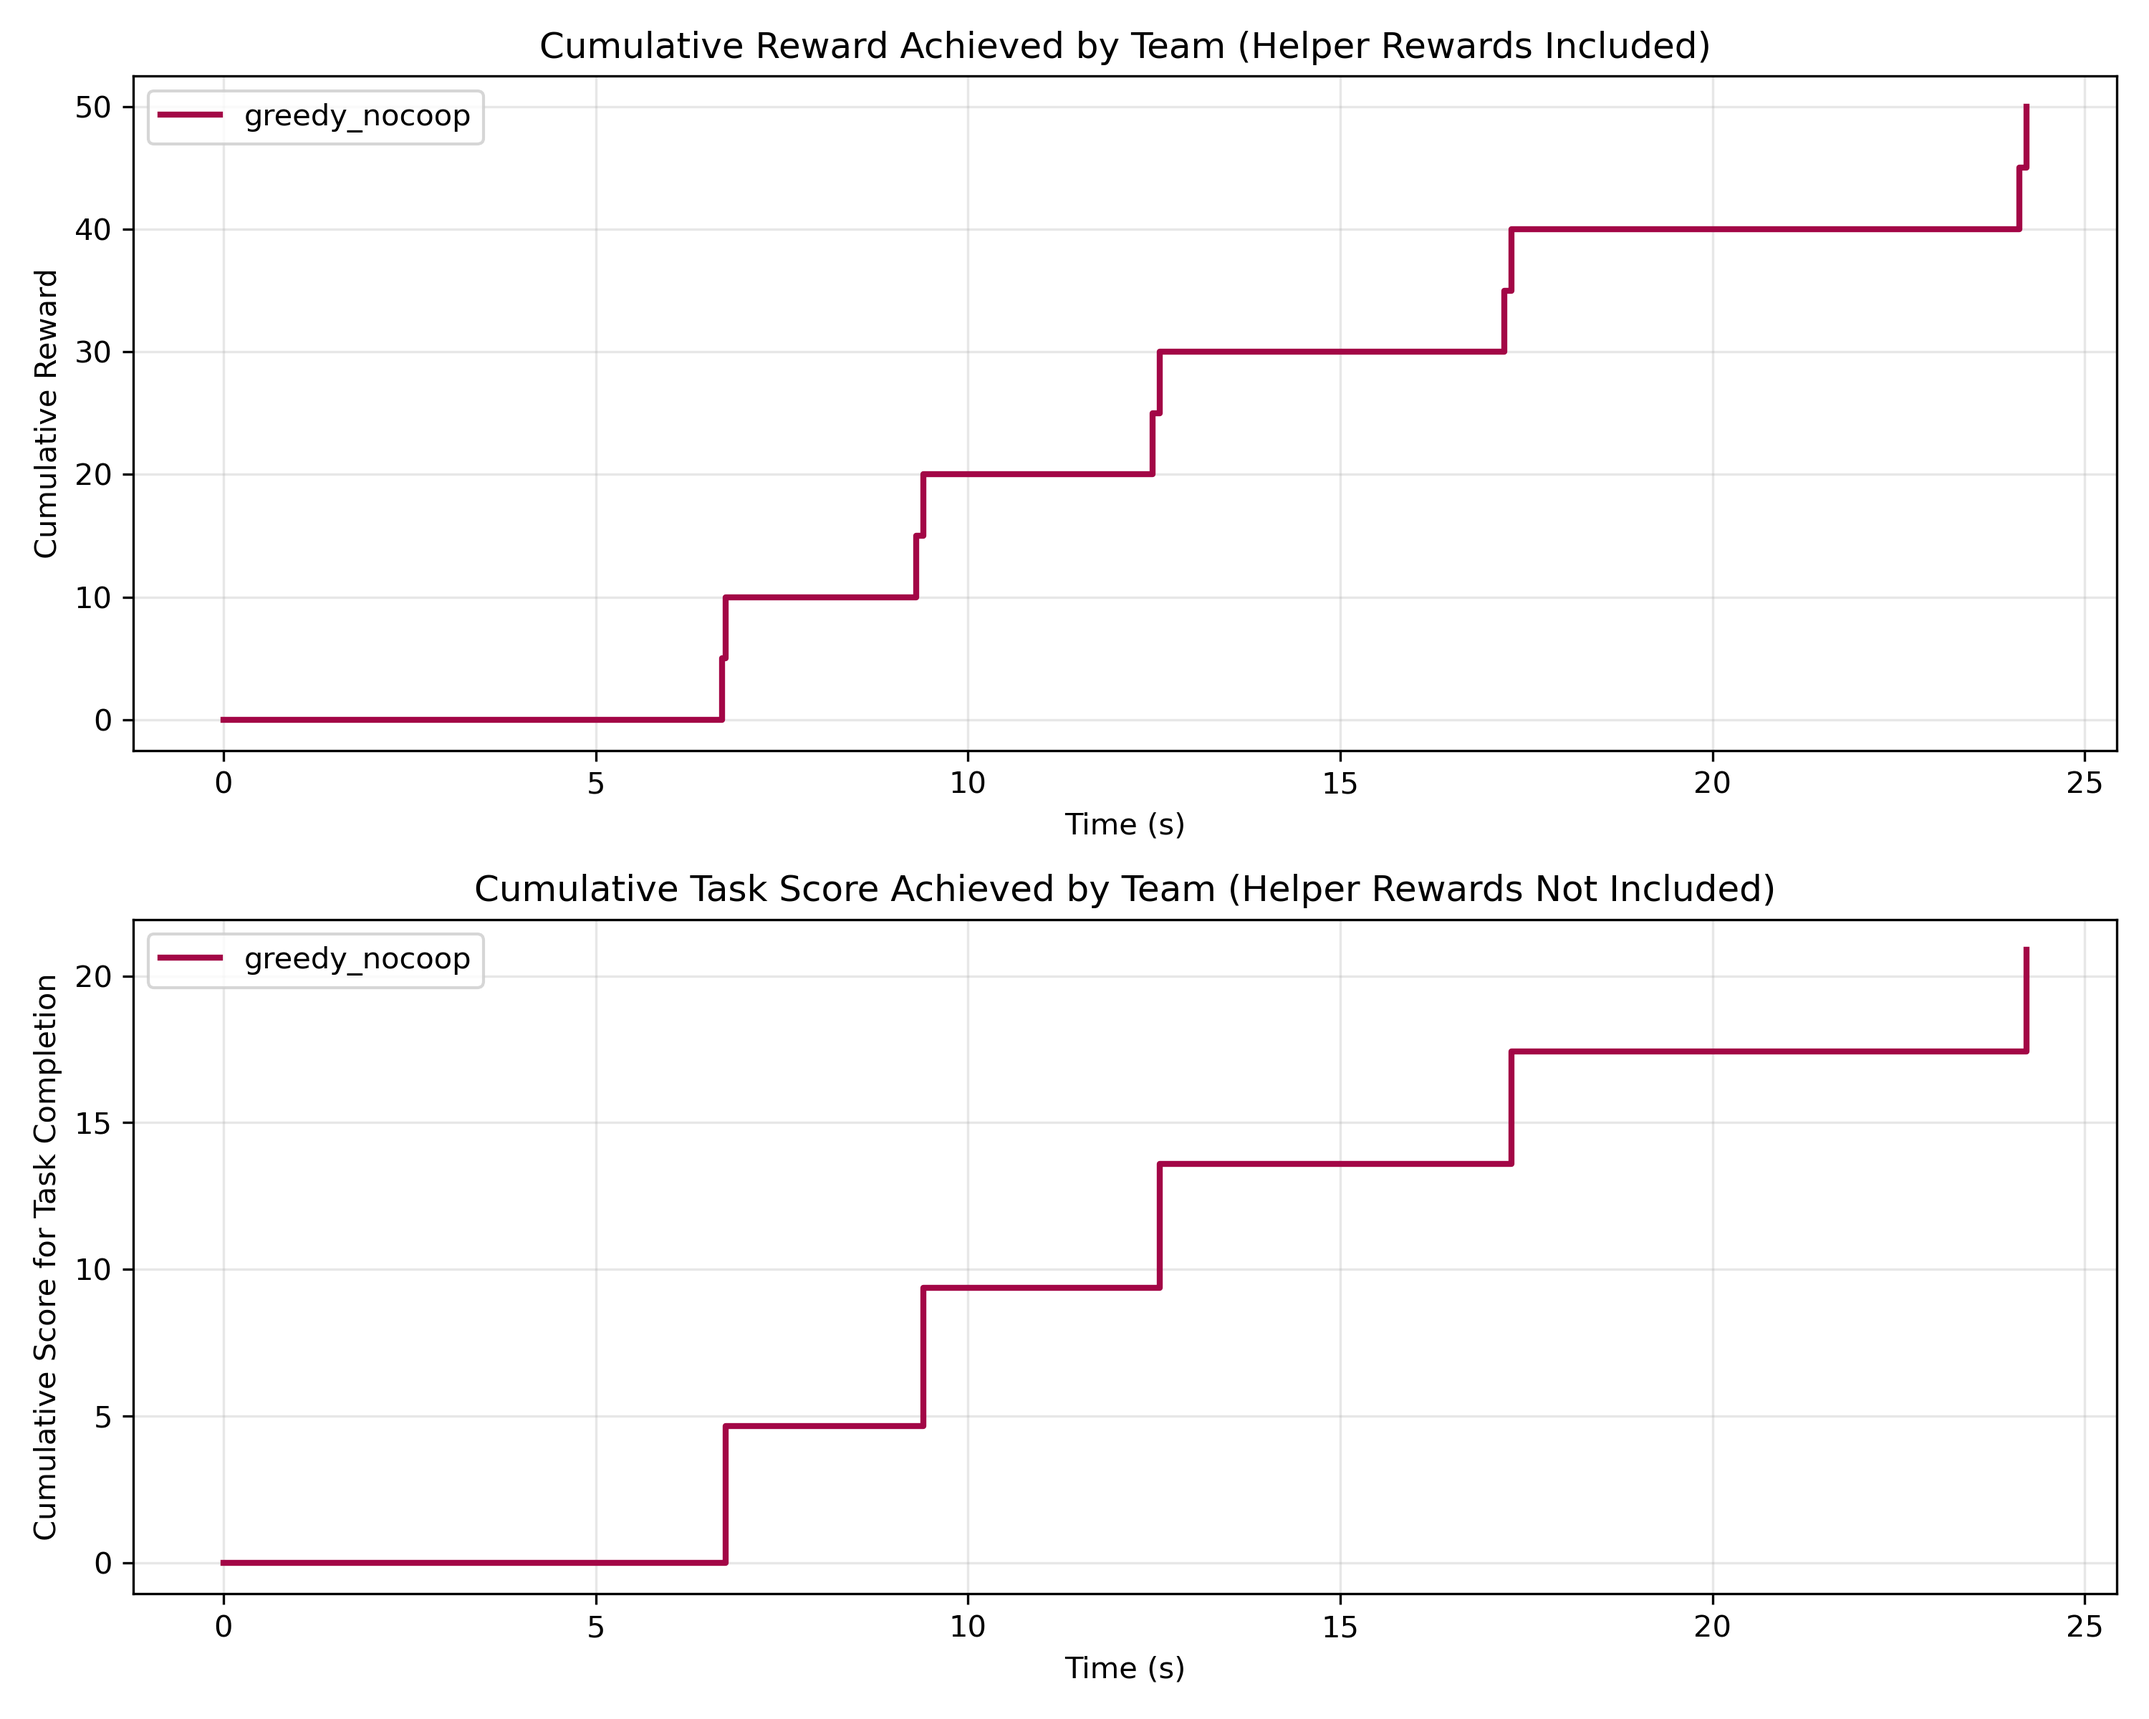
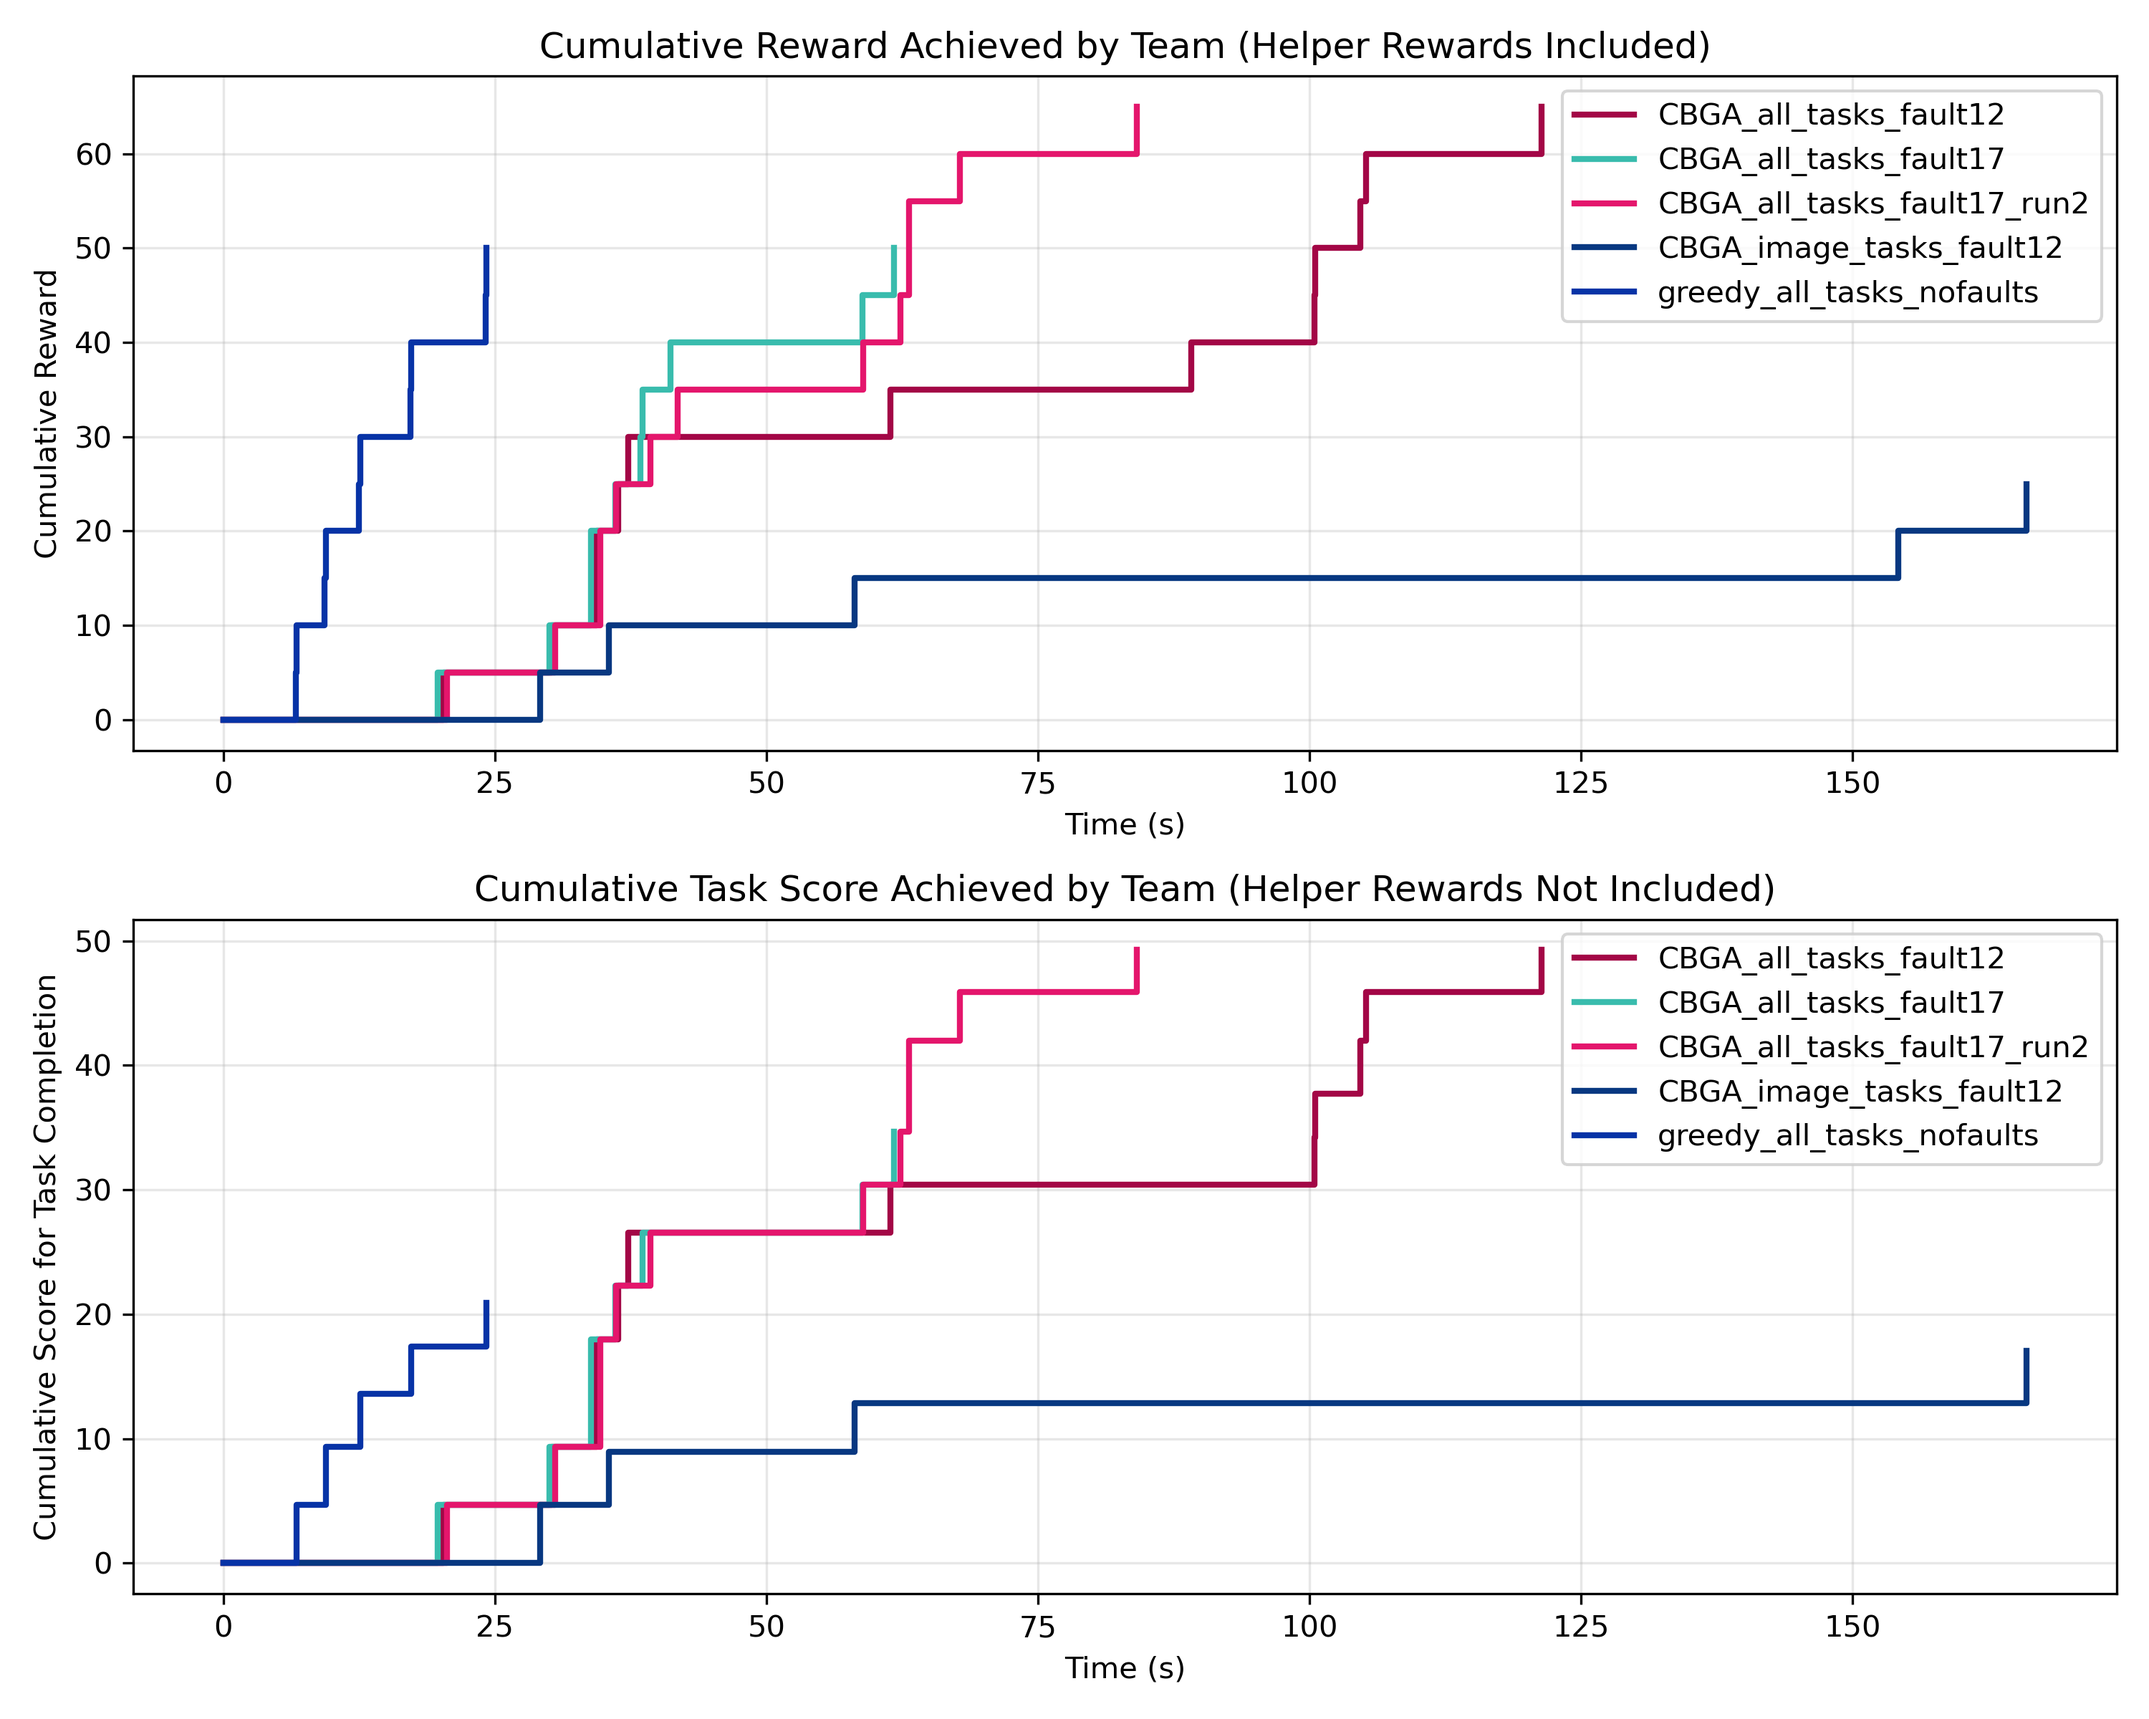
Removed the comms requirement for group present because it caused robot to get stuck during CBGA, can come back to that later. Greedy can be allowed to succeed at co-op tasks by accident, as it cannot handle faults and will take longer when not blocked by faults. Will not score above CBGA, but may b

diff --git a/src/sim.cpp b/src/sim.cpp
@@ -404,7 +404,7 @@ Note here...
 
 // Full greedy version, with executable task subtrees (just for 2 robots (same type) four coverage tasks)
 // No reason to include go to home logic because no comms
-static const char* xml_text = R"(
+/*static const char* xml_text = R"(
 <root BTCPP_format="4">
     <BehaviorTree ID="MainTree">
         <ParallelAll max_failures="5">
@@ -456,10 +456,10 @@ static const char* xml_text = R"(
         </ParallelAll>
      </BehaviorTree>
 </root>
-)";
+)";*/
 
 // Main marine domain tree - this is the tedious version with unique condition/action(s) node(s) for each/all tasks
-/*static const char* xml_text = R"(
+static const char* xml_text = R"(
 <root BTCPP_format="4">
     <BehaviorTree ID="MainTree">
         <ParallelAll max_failures="6">
@@ -504,9 +504,56 @@ static const char* xml_text = R"(
                 </CounterSequence>
             </RepeatSequence>
             <RepeatSequence>
+                <DoSampleCollection1/>
+                <CounterSequence task_is_main="{tim}" current_task_id ="{ctid}" subtask_failure_thresholds="{sft}" self_subtask_failures="{ssf}">
+                    <HandleFailures self_subtask_failures="{ssf}" task_is_main="{tim}" current_task_id ="{ctid}" subtask_failure_thresholds="{sft}"/>
+                    <ExtractSample/>
+                    <LoadSample/>
+                </CounterSequence>
+            </RepeatSequence>
+            <RepeatSequence>
+                <DoSampleCollection2/>
+                <CounterSequence task_is_main="{tim}" current_task_id ="{ctid}" subtask_failure_thresholds="{sft}" self_subtask_failures="{ssf}">
+                    <HandleFailures self_subtask_failures="{ssf}" task_is_main="{tim}" current_task_id ="{ctid}" subtask_failure_thresholds="{sft}"/>
+                    <ExtractSample/>
+                    <LoadSample/>
+                </CounterSequence>
+            </RepeatSequence>
+            <RepeatSequence>
+                <DoSampleCollection3/>
+                <CounterSequence task_is_main="{tim}" current_task_id ="{ctid}" subtask_failure_thresholds="{sft}" self_subtask_failures="{ssf}">
+                    <HandleFailures self_subtask_failures="{ssf}" task_is_main="{tim}" current_task_id ="{ctid}" subtask_failure_thresholds="{sft}"/>
+                    <ExtractSample/>
+                    <LoadSample/>
+                </CounterSequence>
+            </RepeatSequence>
+            <RepeatSequence>
+                <DoSampleCollection4/>
+                <CounterSequence task_is_main="{tim}" current_task_id ="{ctid}" subtask_failure_thresholds="{sft}" self_subtask_failures="{ssf}">
+                    <HandleFailures self_subtask_failures="{ssf}" task_is_main="{tim}" current_task_id ="{ctid}" subtask_failure_thresholds="{sft}"/>
+                    <ExtractSample/>
+                    <LoadSample/>
+                </CounterSequence>
+            </RepeatSequence>
+            <RepeatSequence>
+                <DoClearPath1/>
+                <CounterSequence task_is_main="{tim}" current_task_id ="{ctid}" subtask_failure_thresholds="{sft}" self_subtask_failures="{ssf}">
+                    <HandleFailures self_subtask_failures="{ssf}" task_is_main="{tim}" current_task_id ="{ctid}" subtask_failure_thresholds="{sft}"/>
+                    <ClearPath/>
+                </CounterSequence>
+            </RepeatSequence>
+            <RepeatSequence>
+                <DoClearPath2/>
+                <CounterSequence task_is_main="{tim}" current_task_id ="{ctid}" subtask_failure_thresholds="{sft}" self_subtask_failures="{ssf}">
+                    <HandleFailures self_subtask_failures="{ssf}" task_is_main="{tim}" current_task_id ="{ctid}" subtask_failure_thresholds="{sft}"/>
+                    <ClearPath/>
+                </CounterSequence>
+            </RepeatSequence>
+            <RepeatSequence>
                 <AwayFromHome/>
                 <Fallback>
                     <IsFailingAlone/>
+                    <IsStuckWaiting/>
                     <IsIdle/>
                 </Fallback>
                 <GoHome/>
@@ -514,14 +561,14 @@ static const char* xml_text = R"(
         </ParallelAll>
      </BehaviorTree>
 </root>
-)";*/
+)";
 
 /*
 <IsStuckWaiting/>
 */
 
 /*
-<RepeatSequence>
+            <RepeatSequence>
                 <DoSampleCollection1/>
                 <CounterSequence task_is_main="{tim}" current_task_id ="{ctid}" subtask_failure_thresholds="{sft}" self_subtask_failures="{ssf}">
                     <HandleFailures self_subtask_failures="{ssf}" task_is_main="{tim}" current_task_id ="{ctid}" subtask_failure_thresholds="{sft}"/>
@@ -645,8 +692,8 @@ void run_robot(int robot_id, std::string robot_type, Pose2D initial_pose, cv::Sc
             // std::string path = std::filesystem::current_path().append("src/simplified_marine_sim/config/input.json");
             // std::string path = std::filesystem::current_path().append("src/simplified_marine_sim/config/input_15p_10obs_noblocks.json");
             // std::string path = std::filesystem::current_path().append("src/simplified_marine_sim/config/input_15p_10obs_noblocks_CBGA_no_faults.json");
-            std::string path = std::filesystem::current_path().append("src/simplified_marine_sim/config/input_15p_10obs_noblocks_noCBGA_no_faults.json");
-            // std::string path = std::filesystem::current_path().append("src/simplified_marine_sim/config/input_15p_10obs_noblocks_CBGA_1_fault.json");
+            // std::string path = std::filesystem::current_path().append("src/simplified_marine_sim/config/input_15p_10obs_noblocks_noCBGA_no_faults.json");
+            std::string path = std::filesystem::current_path().append("src/simplified_marine_sim/config/input_15p_10obs_noblocks_CBGA_1_fault.json");
             // std::string path = std::filesystem::current_path().append("src/simplified_marine_sim/config/input_15p_10obs_noblocks_noCBGA_1_fault.json");
 
             JSONParser parser(path);
@@ -866,8 +913,8 @@ int main(int argc, char** argv) {
         // std::string path = std::filesystem::current_path().append("src/simplified_marine_sim/config/input.json");
         // std::string path = std::filesystem::current_path().append("src/simplified_marine_sim/config/input_15p_10obs_noblocks.json");
         // std::string path = std::filesystem::current_path().append("src/simplified_marine_sim/config/input_15p_10obs_noblocks_CBGA_no_faults.json");
-        std::string path = std::filesystem::current_path().append("src/simplified_marine_sim/config/input_15p_10obs_noblocks_noCBGA_no_faults.json");
-        // std::string path = std::filesystem::current_path().append("src/simplified_marine_sim/config/input_15p_10obs_noblocks_CBGA_1_fault.json");
+        // std::string path = std::filesystem::current_path().append("src/simplified_marine_sim/config/input_15p_10obs_noblocks_noCBGA_no_faults.json");
+        std::string path = std::filesystem::current_path().append("src/simplified_marine_sim/config/input_15p_10obs_noblocks_CBGA_1_fault.json");
         // std::string path = std::filesystem::current_path().append("src/simplified_marine_sim/config/input_15p_10obs_noblocks_noCBGA_1_fault.json");
 
         JSONParser parser(path);

diff --git a/src/behavior_tree.cpp b/src/behavior_tree.cpp
@@ -3603,6 +3603,13 @@ NodeStatus GoHome::onStart()
 NodeStatus GoHome::onRunning()
 {
     try {
+
+
+        // this did not fix the glitching during coverage task failure recovery (in fact saw the helper glitch more too)
+        // if (_robot.isBeingHelped()) { // Fail safe to halt going home if was failing without help and now have help from since-run CBGA
+        //     return NodeStatus::FAILURE; // stop going home
+        // }
+
         // Traverse waypoints to home position
         if (_current_waypoint_index >= _waypoints.size()) {
             std::cout << "Robot " << _robot.getID() << " reached home position" << std::endl;

diff --git a/src/world.cpp b/src/world.cpp
@@ -1099,13 +1099,15 @@ bool World::fullGroupPresent(int current_task_id) {
     if (count_robots_at_location == current_task.group_size) {
         // Full group present to start task
 
-        if (current_task.group_size == 1) {
+        return true;
+
+        /*if (current_task.group_size == 1) {
             return true;
         } else if (robotsAtLocationHaveComms(current_task_id)) {
             // Only return true for co-op tasks size > 1 if they can ping each other, otherwise they cannot coordinate
             // Greedy has no comms, so should fail co-op tasks
             return true;
-        }
+        }*/
 
     }
 
